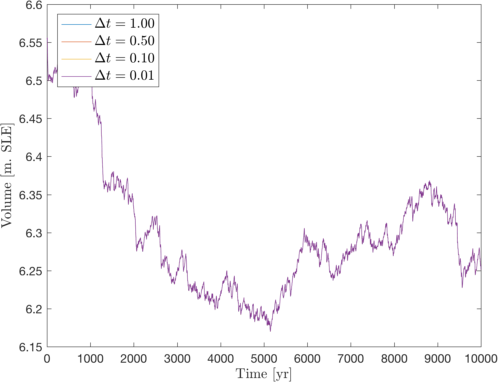
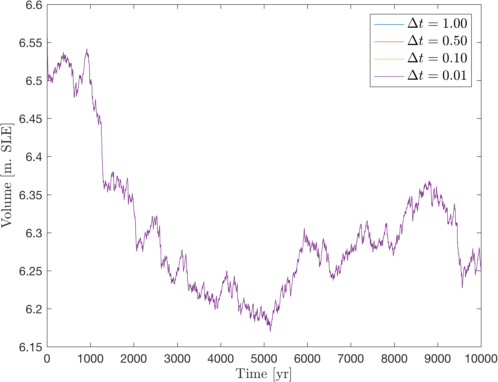
Updated figure legend

Changed region(s): [[0.7229, 0.0288, 0.9639, 0.2304], [0.0904, 0.0288, 0.3313, 0.2304]]

diff --git a/icesheetsStepize.m b/icesheetsStepize.m
@@ -206,7 +206,7 @@ for idx = 1:numel(stepsizes)
     str = ['$\Delta t = ', sprintf('%.2f', stepsizes(idx)), '$'];
     legstr{idx} = str;
 end
-lh = legend(legstr, 'location', 'northwest'); legset(lh)
+lh = legend(legstr, 'location', 'northeast'); legset(lh)
 xl = xlabel('Time [yr]'); textset(xl)
 yl = ylabel('Volume [m. SLE]'); textset(yl)
 
@@ -319,7 +319,7 @@ for idx = 1:numel(stepsizes)
     legstr{idx} = str;
 end
 
-lh = legend(legstr, 'location', 'northwest'); legset(lh)
+lh = legend(legstr, 'location', 'northeast'); legset(lh)
 xl = xlabel('Time [yr]'); textset(xl)
 yl = ylabel('Volume [m. SLE]'); textset(yl)
 
